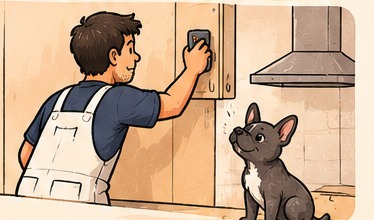
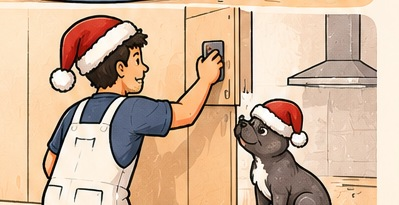
Christmas changes

diff --git a/index.html b/index.html
@@ -39,8 +39,8 @@
         <div class="copy">
           <p class="date">30. November – 2. Dezember</p>
           <h2>Wände glätten</h2>
-          <span class="noise loud">● Laut</span>
-          <p>Ausbesserung und Glättung der Wände mit Spachtelmasse. Insbesondere die anschließenden Schleifarbeiten können sehr laut werden.</p>
+          <span class="noise maybe">● Möglicherweise laut</span>
+          <p>Ausbesserung und Glättung der Wände mit Spachtelmasse. Insbesondere die anschließenden Schleifarbeiten können ziemlich laut werden. In dieser Phase beginne ich außerdem, meine Lebensentscheidungen zu hinterfragen.</p>
         </div>
         <img src="images/waende.jpg" alt="Mike schleift die Wände mit Gehörschutz, Coco macht eine Pause">
       </article>
